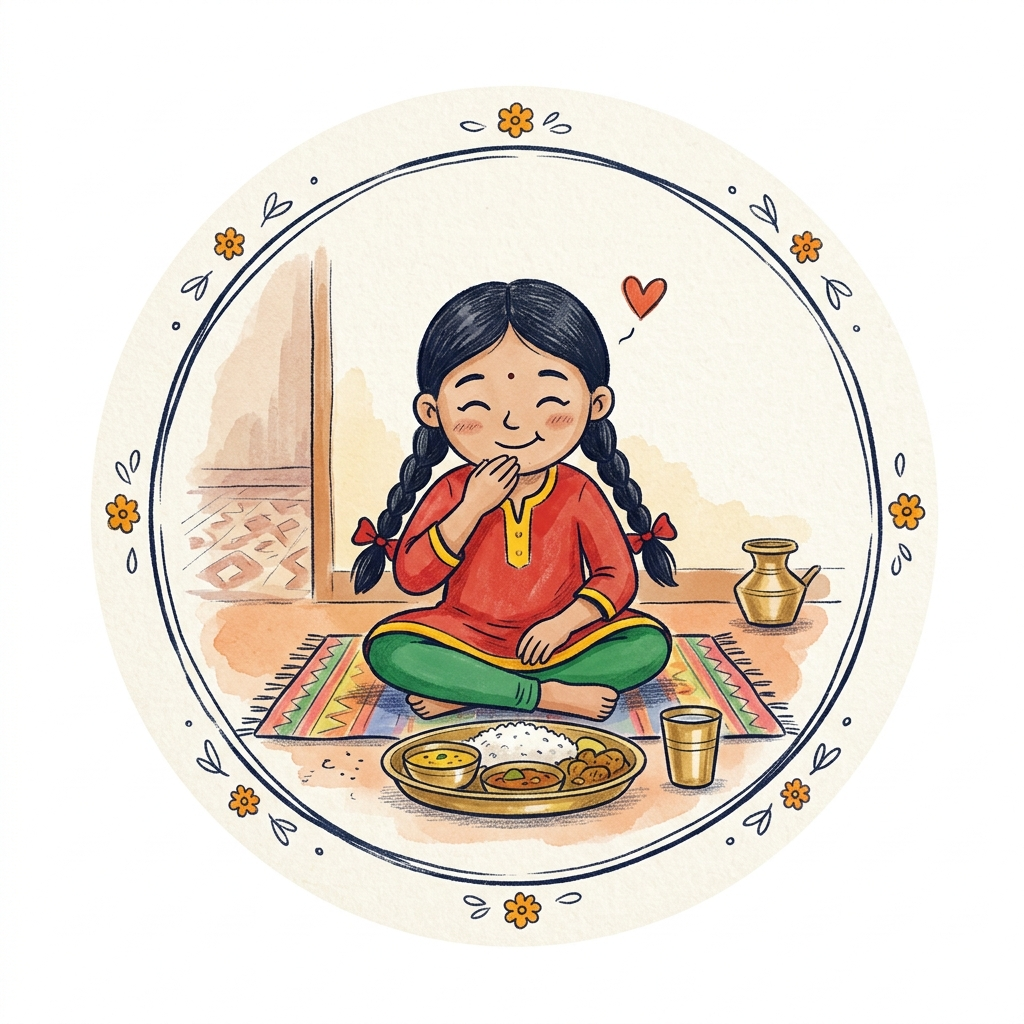
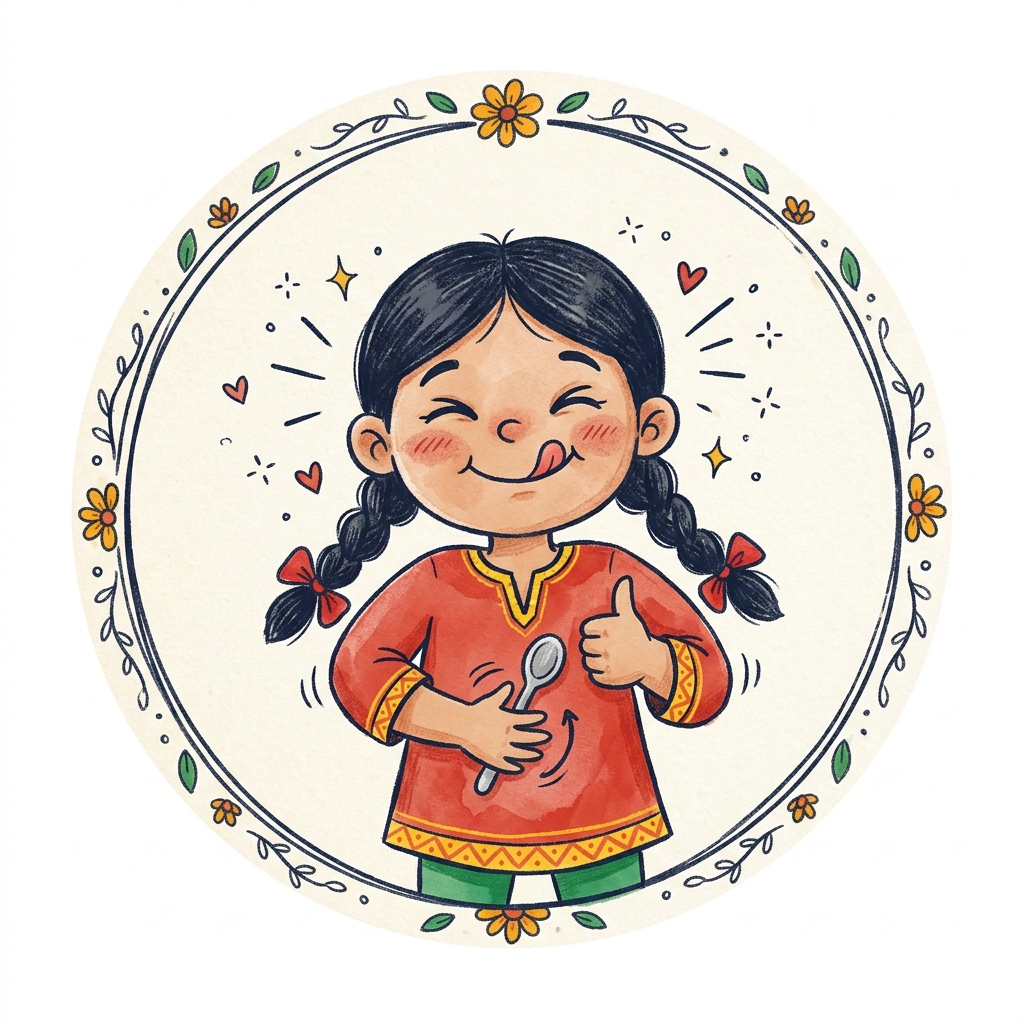
New it-is-yummy picture: Maya's yum reaction
Claude-Session: https://claude.ai/code/session_01A6cqvukmGzNfd7ELHZfxac

diff --git a/public/img-manifest.js b/public/img-manifest.js
@@ -103,7 +103,7 @@ window.IMG = {
  "w-i-feel-cold": "img/w-i-feel-cold.webp?v=602618a3",
  "w-i-feel-hot": "img/w-i-feel-hot.webp?v=efd257f3",
  "w-it-hurts": "img/w-it-hurts.webp?v=0755e40b",
- "w-it-is-yummy": "img/w-it-is-yummy.webp?v=4da3b5a6",
+ "w-it-is-yummy": "img/w-it-is-yummy.webp?v=2adac474",
  "w-jacket": "img/w-jacket.webp?v=47cd3c18",
  "w-kitchen": "img/w-kitchen.webp?v=f999f201",
  "w-leg": "img/w-leg.webp?v=76142999",
